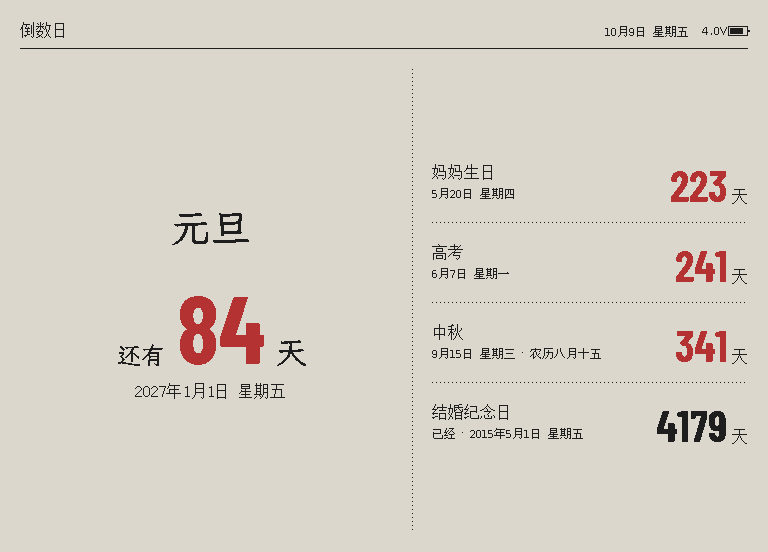
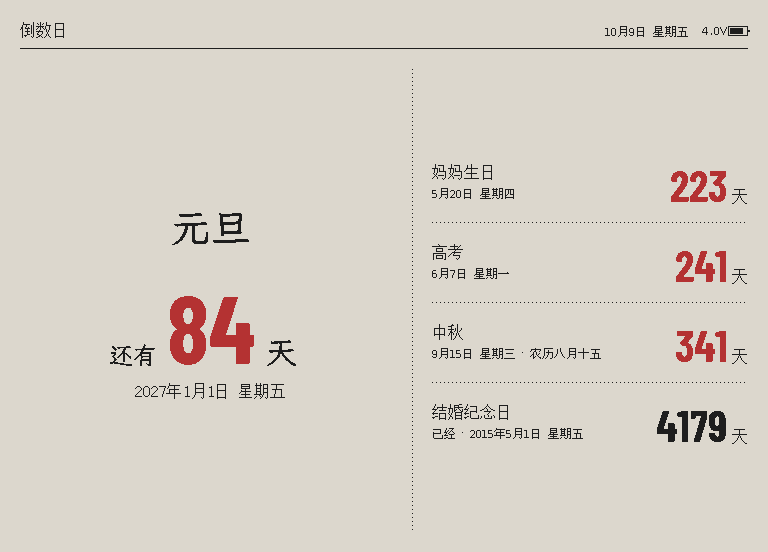
Upright layouts, second batch; countdown number centred; tighter calendar cells
Upright versions of 年度进度 (bars under the percentage, the year as 12 month rows),
倒数日 (the others listed under the featured one), 月相黄历 (a moon band on top),
日程 (one column), 课程表 (rows fill the height), 行情 (the chart under the price)
and 资讯. Every layout now has one.

倒数日: the big number itself is centred, 还有 / 天 beside it (landscape too).
日历: 休 / 班 and today's badge never reach into the cell on the left (narrow
upright cells of the 5.83" / 7.5"); landscape cells are wide enough, unchanged.

Changed region(s): [[0.1562, 0.5236, 0.4062, 0.6775]]

diff --git a/server/src/screens/yearProgress.ts b/server/src/screens/yearProgress.ts
@@ -52,17 +52,23 @@ export function renderYearProgress(panel: Panel, ctx: ScreenContext) {
   const big = bigRef("barlow", large ? 96 : 56);
   const leftH = font.ascent + (large ? 14 : 8) + big.ascent + (large ? 18 : 10) + font.ascent;
   const rowH = large ? 34 : 19;
-  const aH = Math.max(leftH, 5 * rowH);
+  // upright: the bars under the percentage (full width), and the year as 12 month rows of
+  // up to 31 days instead of 53 week columns, which would be too small across
+  const tall = H > W;
+  const barsGap = large ? 22 : 12;
+  const aH = tall ? leftH + barsGap + 5 * rowH : Math.max(leftH, 5 * rowH);
   const jan1 = new Date(y, 0, 1);
   const firstDow = (jan1.getDay() + 6) % 7;
   const days = Math.round((new Date(y + 1, 0, 1).getTime() - jan1.getTime()) / DAY);
   const weeks = Math.ceil((firstDow + days) / 7);
   const labelCol = large ? 26 : 0; // weekday labels only where the rows are tall enough
   const gAvail = bx1 - (m + labelCol);
-  const cell = Math.floor(gAvail / weeks);
+  const mLabelW = width(wqy9, "12月") + (large ? 10 : 6);
+  const cell = tall ? Math.floor((bx1 - m - mLabelW) / 31) : Math.floor(gAvail / weeks);
   const dot = cell - (large ? 3 : 2);
-  const monthH = large ? 18 : 12, legendH = large ? 30 : 20;
-  const bH = monthH + 7 * cell + legendH;
+  const monthH = tall ? 0 : large ? 18 : 12, legendH = large ? 30 : 20;
+  const gridRows = tall ? 12 : 7;
+  const bH = monthH + gridRows * cell + legendH;
   const cH = large ? 40 : 26;
   const free = Math.max(0, H - f.top - aH - bH - cH);
   const gap = Math.floor(free / 3.5); // top, A|B, B|C, half at the bottom
@@ -82,10 +88,10 @@ export function renderYearProgress(panel: Panel, ctx: ScreenContext) {
   x = print(c, font, String(days - daysPast), x, ly, Ink.Red);
   print(c, font, " 天", x, ly, Ink.Black);
 
-  const bx0 = large ? 330 : 176;
-  const labelW = large ? 74 : 44, noteW = large ? 96 : 0;
+  const bx0 = tall ? m : large ? 330 : 176;
+  const labelW = large ? 74 : 44, noteW = large ? 96 : tall ? 64 : 0;
   const tones: Tone[] = [[[Ink.Red, 1]], [[Ink.Yellow, 1]], [[Ink.Yellow, 1]], [[Ink.Yellow, 1]], [[Ink.Black, 0.35]]];
-  const barsTop = aTop + Math.round((aH - 5 * rowH) / 2);
+  const barsTop = tall ? aTop + leftH + barsGap - (large ? 6 : 4) : aTop + Math.round((aH - 5 * rowH) / 2);
   rows.forEach((r, i) => {
     const base = barsTop + i * rowH + (large ? 20 : 13);
     print(c, font, r.label, bx0, base, Ink.Black);
@@ -96,24 +102,27 @@ export function renderYearProgress(panel: Panel, ctx: ScreenContext) {
     if (noteW) print(c, wqy9, r.note, bx1 - width(wqy9, r.note), base, Ink.Black);
   });
 
-  // ── B: the year as a week x weekday grid ──
-  const gx0 = m + labelCol + Math.floor((gAvail - cell * weeks) / 2);
+  // ── B: the year as a week x weekday grid (upright: month x day) ──
+  const gx0 = tall ? m + mLabelW : m + labelCol + Math.floor((gAvail - cell * weeks) / 2);
   const gy0 = aTop + aH + gap + monthH;
   const today = daysPast - 1;
-  if (large) ["一", "三", "五", "日"].forEach((t, k) => {
+  if (tall) {
+    for (let mo = 0; mo < 12; mo++) {
+      const gy = gy0 + mo * cell;
+      // rows lower than the label (the 4.2"): every third month
+      if (cell >= 12 || mo % 3 === 0) print(c, wqy9, `${mo + 1}月`, m, gy + Math.round(dot / 2) + 5, Ink.Black);
+      for (let dd = 1; dd <= new Date(y, mo + 1, 0).getDate(); dd++) {
+        const i = Math.round((new Date(y, mo, dd).getTime() - jan1.getTime()) / DAY);
+        dayCell(i, mo + 1, dd, gx0 + (dd - 1) * cell, gy);
+      }
+    }
+  }
+  if (large && !tall) ["一", "三", "五", "日"].forEach((t, k) => {
     const row = [0, 2, 4, 6][k];
     print(c, wqy9, t, m, gy0 + row * cell + Math.round(dot / 2) + 5, Ink.Black);
   });
-  let monthLabelEnd = -Infinity;
-  for (let i = 0; i < days; i++) {
-    const dt = new Date(y, 0, 1 + i);
-    const k = firstDow + i, col = Math.floor(k / 7), row = k % 7;
-    const gx = gx0 + col * cell, gy = gy0 + row * cell;
-    const off = holidayOf(y, dt.getMonth() + 1, dt.getDate()) === "off";
-    if (dt.getDate() === 1) {
-      const lbl = `${dt.getMonth() + 1}月`;
-      if (gx > monthLabelEnd + 3 && gx + width(wqy9, lbl) < bx1) monthLabelEnd = print(c, wqy9, lbl, gx, gy0 - (large ? 6 : 4), Ink.Black);
-    }
+  function dayCell(i: number, mo: number, dd: number, gx: number, gy: number) {
+    const off = holidayOf(y, mo, dd) === "off";
     if (i === today) { // red, one px larger all round, with a black ring (stands out from red days off on B/W/R)
       c.frame(gx - 2, gy - 2, gx + dot + 2, gy + dot + 2, Ink.Black);
       c.rect(gx - 1, gy - 1, gx + dot + 1, gy + dot + 1, Ink.Red);
@@ -124,7 +133,18 @@ export function renderYearProgress(panel: Panel, ctx: ScreenContext) {
       c.frame(gx, gy, gx + dot, gy + dot, Ink.Black);
     }
   }
-  const legY = gy0 + 7 * cell + legendH - (large ? 8 : 6);
+  let monthLabelEnd = -Infinity;
+  for (let i = 0; i < days && !tall; i++) {
+    const dt = new Date(y, 0, 1 + i);
+    const k = firstDow + i, col = Math.floor(k / 7), row = k % 7;
+    const gx = gx0 + col * cell, gy = gy0 + row * cell;
+    if (dt.getDate() === 1) {
+      const lbl = `${dt.getMonth() + 1}月`;
+      if (gx > monthLabelEnd + 3 && gx + width(wqy9, lbl) < bx1) monthLabelEnd = print(c, wqy9, lbl, gx, gy0 - (large ? 6 : 4), Ink.Black);
+    }
+    dayCell(i, dt.getMonth() + 1, dt.getDate(), gx, gy);
+  }
+  const legY = gy0 + gridRows * cell + legendH - (large ? 8 : 6);
   {
     let lx = gx0;
     const sw = large ? 10 : 7;
@@ -140,7 +160,7 @@ export function renderYearProgress(panel: Panel, ctx: ScreenContext) {
   }
 
   // ── C: coming days off: "接下来  元旦 89天  春节 ..." ──
-  const cTop = gy0 + 7 * cell + legendH + gap;
+  const cTop = gy0 + gridRows * cell + legendH + gap;
   c.dottedH(m, bx1, cTop, Ink.Black, 1, 3);
   const hy = cTop + cH - (large ? 10 : 6);
   x = print(c, font, "接下来", m, hy, Ink.Black) + (large ? 18 : 10);
@@ -165,4 +185,5 @@ export const yearProgressMode: Screen = {
   name: "年度进度",
   description: "今年、本季、本月、本周、今天各过了多少，加整年的日历点阵图。",
   render: renderYearProgress,
+  portrait: true,
 };

diff --git a/server/src/screens/countdown.ts b/server/src/screens/countdown.ts
@@ -53,9 +53,13 @@ export function renderCountdown(panel: Panel, ctx: ScreenContext) {
   const rest = events.filter((e) => e !== main);
 
   // ── featured: name / [还有] 123 [天] / date, centred in its area ──
-  const area = large && rest.length
-    ? { x0: m, x1: 400, y0: f.top, y1: H }
-    : { x0: m, x1: W - m, y0: f.top, y1: large || !rest.length ? H : f.top + 150 };
+  // upright: the featured one in the top part, the others listed under it, full width
+  const tall = H > W;
+  const area = tall && rest.length
+    ? { x0: m, x1: W - m, y0: f.top, y1: f.top + Math.round((H - f.top) * (large ? 0.4 : 0.42)) }
+    : large && rest.length
+      ? { x0: m, x1: 400, y0: f.top, y1: H }
+      : { x0: m, x1: W - m, y0: f.top, y1: large || !rest.length ? H : f.top + 150 };
   const cx = Math.round((area.x0 + area.x1) / 2);
   const nameF = fitCjk(main.name, area.x1 - area.x0 - 20, large, large ? 40 : 32);
   const name = ellipsize(nameF, main.name, area.x1 - area.x0 - 20);
@@ -73,10 +77,11 @@ export function renderCountdown(panel: Panel, ctx: ScreenContext) {
   } else {
     const verb = main.past ? "已经" : "还有";
     const n = String(main.days);
-    const wV = width(verbF, verb), wN = width(num, n), wU = width(unitF, "天");
-    let x = Math.round(cx - (wV + 12 + wN + 10 + wU) / 2);
-    x = print(c, verbF, verb, x, y, Ink.Black) + 12;
-    x = print(c, num, n, x, y, main.past ? Ink.Black : Ink.Red) + 10;
+    // the number itself on the centre line, 还有 / 天 beside it
+    const wV = width(verbF, verb), wN = width(num, n);
+    const nx = Math.round(cx - wN / 2);
+    print(c, verbF, verb, nx - 12 - wV, y, Ink.Black);
+    const x = print(c, num, n, nx, y, main.past ? Ink.Black : Ink.Red) + 10;
     print(c, unitF, "天", x, y, Ink.Black);
   }
   y += gap2 + dateF.ascent;
@@ -85,21 +90,22 @@ export function renderCountdown(panel: Panel, ctx: ScreenContext) {
 
   if (!rest.length) return c;
   const days = bigRef("barlow", large ? 44 : 32);
-  if (large) {
-    // ── the others: a list sharing the column's height ──
-    c.dottedV(412, f.top + 20, H - 20, Ink.Black, 1, 3);
-    const x0 = 432, x1 = W - m;
-    const top = f.top + 14, avail = H - top - 12;
-    const rowH = Math.max(52, Math.min(80, Math.floor(avail / rest.length)));
+  if (large || tall) {
+    // ── the others: a list sharing the column's height (upright: under the featured one) ──
+    if (tall) c.dottedH(m, W - m, area.y1, Ink.Black, 1, 3);
+    else c.dottedV(412, f.top + 20, H - 20, Ink.Black, 1, 3);
+    const x0 = tall ? m : 432, x1 = W - m;
+    const top = tall ? area.y1 + (large ? 10 : 4) : f.top + 14, avail = H - top - (large ? 12 : 6);
+    const rowH = large ? Math.max(52, Math.min(80, Math.floor(avail / rest.length))) : Math.max(36, Math.min(48, Math.floor(avail / rest.length)));
     const shown = Math.min(rest.length, Math.floor(avail / rowH));
     const y0 = top + Math.round((avail - shown * rowH) / 2);
     rest.slice(0, shown).forEach((e, i) => {
       const mid = y0 + i * rowH + Math.round(rowH / 2);
       const numS = String(e.days);
       const right = x1 - width(wqy12, "天") - 6 - width(days, numS);
-      print(c, wqy12, ellipsize(wqy12, e.name, right - x0 - 14), x0, mid - 4, Ink.Black);
+      print(c, wqy12, ellipsize(wqy12, e.name, right - x0 - 14), x0, mid - (large ? 4 : 2), Ink.Black);
       const showYear = e.past || e.date.getFullYear() > ctx.now.getFullYear() + 1;
-      print(c, wqy9, ellipsize(wqy9, (e.past ? "已经 · " : "") + dateLine(e, showYear), right - x0 - 14), x0, mid + 16, Ink.Black);
+      print(c, wqy9, ellipsize(wqy9, (e.past ? "已经 · " : "") + dateLine(e, showYear), right - x0 - 14), x0, mid + (large ? 16 : 12), Ink.Black);
       const nb = mid + Math.round(days.ascent / 2) - 2;
       print(c, days, numS, right, nb, e.past ? Ink.Black : Ink.Red);
       print(c, wqy12, "天", x1 - width(wqy12, "天"), nb, Ink.Black);
@@ -131,6 +137,7 @@ export const countdownMode: Screen = {
   description: "考试、生日、纪念日、下个假期……离那天还有多少天（支持农历和每年重复，可选哪个大字显示）。",
   config: CONFIG,
   render: renderCountdown,
+  portrait: true,
   prepare: async (db, now) => {
     const cfg = getModeConfig(db, "countdown", CONFIG);
     return { data: { events: parseCountdowns(cfg.events, now).events, featured: cfg.featured } satisfies CountdownData };

diff --git a/server/src/screens/almanac.ts b/server/src/screens/almanac.ts
@@ -95,26 +95,32 @@ export function renderAlmanac(panel: Panel, ctx: ScreenContext) {
   const textLH = large ? 30 : 16;
   const textH = (large ? 40 : 22) + textLH * (1 + upcoming.length);
   const availH = H - f.top - (large ? 24 : 10);
-  const r = Math.floor(Math.min((split - m) / 2 - (large ? 12 : 4), (availH - textH - (large ? 20 : 8)) / 2));
-  const top = f.top + Math.round((availH - (2 * r + textH)) / 2) + (large ? 12 : 5);
-  const mcx = Math.round((m + split) / 2), mcy = top + r;
+  // upright: a band across the top, the moon on the left and its text on the right; the
+  // almanac fills the rest below, full width
+  const tall = H > W;
+  const bandH = tall ? Math.round((H - f.top) * (large ? 0.34 : 0.36)) : 0;
+  const r = tall ? Math.floor(Math.min((W / 2 - m) / 2 - (large ? 12 : 4), (bandH - (large ? 24 : 12)) / 2))
+    : Math.floor(Math.min((split - m) / 2 - (large ? 12 : 4), (availH - textH - (large ? 20 : 8)) / 2));
+  const top = tall ? f.top + Math.round(bandH / 2) - r : f.top + Math.round((availH - (2 * r + textH)) / 2) + (large ? 12 : 5);
+  const mcx = tall ? Math.round(m + (W / 2 - m) / 2) : Math.round((m + split) / 2), mcy = top + r;
   drawMoon(c, mcx, mcy, r, ph.age, panel.colors >= 4);
-  let ty = mcy + r + (large ? 40 : 22);
   const name = phaseName(ph.age);
   const nameF = large ? bigRef("wenkai", 28) : wqy12;
-  print(c, nameF, name, centeredX(nameF, name, mcx), ty, Ink.Red);
-  ty += textLH;
-  const stat = `月龄 ${ph.age.toFixed(1)} 天 · 照亮 ${Math.round(ph.lit * 100)}%`;
-  print(c, font, stat, centeredX(font, stat, mcx), ty, Ink.Black);
-  for (const [label, dt] of upcoming) {
+  const stats = tall ? [`月龄 ${ph.age.toFixed(1)} 天`, `照亮 ${Math.round(ph.lit * 100)}%`]
+    : [`月龄 ${ph.age.toFixed(1)} 天 · 照亮 ${Math.round(ph.lit * 100)}%`];
+  const lines = [...stats, ...upcoming.map(([label, dt]) => `${label} ${md(dt)}（${daysUntil(now, dt)}天后）`)];
+  const tcx = tall ? Math.round(W * 3 / 4) : mcx;
+  let ty = tall ? f.top + Math.round((bandH - (nameF.ascent + lines.length * textLH)) / 2) + nameF.ascent : mcy + r + (large ? 40 : 22);
+  print(c, nameF, name, centeredX(nameF, name, tcx), ty, Ink.Red);
+  for (const s2 of lines) {
     ty += textLH;
-    const s = `${label} ${md(dt)}（${daysUntil(now, dt)}天后）`;
-    print(c, font, s, centeredX(font, s, mcx), ty, Ink.Black);
+    print(c, font, s2, centeredX(font, s2, tcx), ty, Ink.Black);
   }
 
   // ── almanac (right): measure with the largest fonts that fit, then share the slack ──
-  c.dottedV(split + (large ? 10 : 4), f.top + 14, H - 14, Ink.Black, 1, 3);
-  const x0 = split + (large ? 30 : 12), x1 = W - m, cw = x1 - x0;
+  if (tall) c.dottedH(m, W - m, f.top + bandH, Ink.Black, 1, 3);
+  else c.dottedV(split + (large ? 10 : 4), f.top + 14, H - 14, Ink.Black, 1, 3);
+  const x0 = tall ? m : split + (large ? 30 : 12), x1 = W - m, cw = x1 - x0;
   const rows: [string, string][] = [
     ["冲煞", `冲${L.getDayChongDesc()} 煞${L.getDaySha()}`],
     ["吉神", `喜神${L.getDayPositionXiDesc()} 福神${L.getDayPositionFuDesc()} 财神${L.getDayPositionCaiDesc()}`],
@@ -127,7 +133,7 @@ export function renderAlmanac(panel: Panel, ctx: ScreenContext) {
   const sets: { head: RefFont; body: RefFont }[] = large
     ? [{ head: bigRef("wenkai", 32), body: bigRef("wenkai", 24) }, { head: bigRef("wenkai", 28), body: wqy12 }, { head: wqy12, body: wqy12 }, { head: wqy12, body: wqy9 }]
     : [{ head: cjkAt(false, 24), body: wqy9 }, { head: wqy12, body: wqy9 }];
-  const top2 = f.top + (large ? 10 : 6), bottom2 = H - (large ? 10 : 6);
+  const top2 = f.top + bandH + (large ? 10 : 6), bottom2 = H - (large ? 10 : 6);
   type Block = { h: number; draw: (yy: number) => void };
   const build = (head: RefFont, body: RefFont): Block[] => {
     const lh = Math.round((body.ascent - body.descent) * 1.3);
@@ -184,4 +190,5 @@ export const almanacMode: Screen = {
   name: "月相黄历",
   description: "今天的月相（月龄、照亮比例、下次满月/新月）和老黄历（宜忌、冲煞、吉神方位等）。",
   render: renderAlmanac,
+  portrait: true,
 };

diff --git a/server/src/screens/timetable.ts b/server/src/screens/timetable.ts
@@ -260,7 +260,8 @@ function drawWeek(f: ReturnType<typeof screenWithHeader>, tt: Timetable, sd: Sch
   const timeW = Math.max(large ? (many ? 84 : 96) : (many ? 38 : 44), labelW + (large ? 14 : 8));
   const headH = large ? (many ? 40 : 46) : (many ? 24 : 30);
   const top = f.top + (large ? 10 : 4), bottom = H - (large ? 12 : 4);
-  const rowH = Math.min(large ? 64 : 40, Math.floor((bottom - top - headH) / rows));
+  // upright, the rows share the panel's long side (a lower cap), so the grid fills it
+  const rowH = Math.min(H > W ? (large ? 120 : 64) : large ? 64 : 40, Math.floor((bottom - top - headH) / rows));
   const x0 = m + timeW, colW = Math.floor((W - m - x0) / cols.length);
   const gridTop = top + headH;
   // sizes up to what a one-period block holds, so longer blocks do not get bigger type
@@ -365,7 +366,7 @@ function drawDay(f: ReturnType<typeof screenWithHeader>, tt: Timetable, sd: Scho
   const breaks = breakBefore.filter(Boolean).length;
   const gapH = large ? 14 : 6;
   const top = f.top + (large ? 12 : 4), bottom = H - (large ? 12 : 4);
-  const rowH = Math.min(large ? 88 : 56, Math.floor((bottom - top - breaks * gapH) / ls.length));
+  const rowH = Math.min(H > W ? (large ? 130 : 80) : large ? 88 : 56, Math.floor((bottom - top - breaks * gapH) / ls.length));
   const tf = large ? wqy12 : wqy9;
   const timeW = width(tf, "00:00-00:00") + (large ? 24 : 12);
   const tagF = large ? wqy12 : wqy9;
@@ -412,6 +413,7 @@ export const timetableMode: Screen = {
   description: "小学到大学的课程表：整周或当天，正在上和下一节课用红色标出；大学可按周次、单双周排课；周末、放假时显示下一个上学日。",
   config: CONFIG,
   render: renderTimetable,
+  portrait: true,
   prepare: async (db) => {
     const cfg = getModeConfig(db, "timetable", CONFIG);
     const periods = cfg.periods.trim() ? cfg.periods : PRESETS[cfg.stage] ?? PRESETS.primary;

diff --git a/server/src/screens/market.ts b/server/src/screens/market.ts
@@ -86,15 +86,17 @@ export function renderMarket(panel: Panel, ctx: ScreenContext) {
   print(c, large ? wqy12 : wqy9, "%", cx + 1, priceBase - (large ? 16 : 6), inkOf(q0));
   if (large) print(c, wqy9, `昨收 ${fmt(q0.prev, q0.decimals)}`, pe + 12, priceBase + 4, Ink.Black);
 
-  // minute chart (right of the price on 3.98", full width below on 4.2")
-  const chart = large
+  // minute chart (right of the price on 3.98", full width below on 4.2" and upright)
+  const beside = large && H < W;
+  const chart = beside
     ? { x0: 420, y0: f.top + 22, x1: W - m, y1: priceBase + 6 }
+    : large ? { x0: m, y0: priceBase + 18, x1: W - m, y1: priceBase + 110 }
     : { x0: m, y0: priceBase + 10, x1: W - m, y1: priceBase + 46 };
   if (data.minutes.length > 1) sparkline(c, data.minutes, q0.prev, chart.x0, chart.y0, chart.x1, chart.y1, large ? 2 : 1, panel.colors >= 4);
 
   // ── the rest as a table ──
   const rest = data.quotes.slice(1);
-  const tTop = (large ? priceBase : chart.y1) + (large ? 30 : 12);
+  const tTop = (beside ? priceBase : chart.y1) + (large ? 30 : 12);
   c.rect(m, tTop, W - m, tTop + 1, Ink.Black);
   // rows share the free height (within limits); a second column only when one is not enough
   const avail = H - tTop - 6;
@@ -131,6 +133,7 @@ export const marketMode: Screen = {
   description: "股票、指数、黄金、汇率：第一项大字加当天走势，其余列表（红涨黑跌）。",
   config: CONFIG,
   render: renderMarket,
+  portrait: true,
   prepare: async (db) => {
     const codes = parseCodes(getModeConfig(db, "market", CONFIG).codes);
     if (!codes.length) return { data: { quotes: [], minutes: [], configured: false } satisfies MarketData };

diff --git a/server/src/screens/calendar.ts b/server/src/screens/calendar.ts
@@ -244,7 +244,8 @@ export function renderCalendar(panel: Panel, ctx: ScreenContext, opts: CalendarO
         if (isToday) {
           const rr = large ? 10 : 8;
           // Reference x, pushed left if the badge would cover the date (upright: the corner).
-          const rx = tall ? x + displayWeek * bw + rr + 3 : Math.min(bx - (large ? 10 : 5), dayInk.x0 - 2 - rr);
+          // (never into the cell on the left: narrow upright cells)
+          const rx = tall ? x + displayWeek * bw + rr + 3 : Math.max(x + displayWeek * bw + rr + 1, Math.min(bx - (large ? 10 : 5), dayInk.x0 - 2 - rr));
           const ry = tall ? cellTop + rr + 3 : by - 2;
           fillCircle(c, rx, ry, rr, Ink.White);
           drawCircle(c, rx, ry, rr, Ink.Red);
@@ -257,7 +258,7 @@ export function renderCalendar(panel: Panel, ctx: ScreenContext, opts: CalendarO
         } else {
           // Reference position, pushed left if it would touch the date.
           const ink = inkBounds(wqy9, text, 0, 0)!;
-          const hx = tall ? x + displayWeek * bw + 4 : Math.min(bx - (large ? 20 : 11), dayInk.x0 - 2 - ink.x1);
+          const hx = tall ? x + displayWeek * bw + 4 : Math.max(x + displayWeek * bw + 2, Math.min(bx - (large ? 20 : 11), dayInk.x0 - 2 - ink.x1));
           const hb = tall ? cellTop + 4 - ink.y0 : by + 3;
           print(c, wqy9, text, hx, hb, holInk);
           box(day, text, wqy9, text, hx, hb);

diff --git a/server/src/screens/agenda.ts b/server/src/screens/agenda.ts
@@ -61,7 +61,7 @@ export function renderAgenda(panel: Panel, ctx: ScreenContext) {
 
   const font = large ? wqy12 : wqy9;
   const rowH = large ? 26 : 17, headH = large ? 32 : 22, timeW = width(font, "00:00") + (large ? 14 : 8);
-  const cols = large ? 2 : 1, gap = 28;
+  const cols = large && H < W ? 2 : 1, gap = 28;  // upright: one column
   const colW = Math.floor((W - 2 * m - (cols - 1) * gap) / cols);
   const colY = Array.from({ length: cols }, () => f.top + (large ? 14 : 8));
   const bottom = H - (large ? 22 : 16); // room for "还有 N 项未显示"
@@ -118,6 +118,7 @@ export const agendaMode: Screen = {
   description: "接下来几天的日程：订阅 Google / iCloud / Outlook / 飞书等日历（ICS 链接），或手动添加。",
   config: CONFIG,
   render: renderAgenda,
+  portrait: true,
   prepare: async (db, now) => {
     const cfg = getModeConfig(db, "agenda", CONFIG);
     // today and the next `days` days, the last one included

diff --git a/server/src/screens/news.ts b/server/src/screens/news.ts
@@ -85,6 +85,7 @@ export const newsMode: Screen = {
   description: "订阅的 RSS 资讯标题，最新的在前；第一条带摘要。",
   config: CONFIG,
   render: renderNews,
+  portrait: true,
   prepare: async (db) => {
     const lines = getModeConfig(db, "news", CONFIG).feeds.split("\n").map((l) => l.trim()).filter((l) => l && !l.startsWith("#"));
     const items: NewsItem[] = [], errors: string[] = [];
